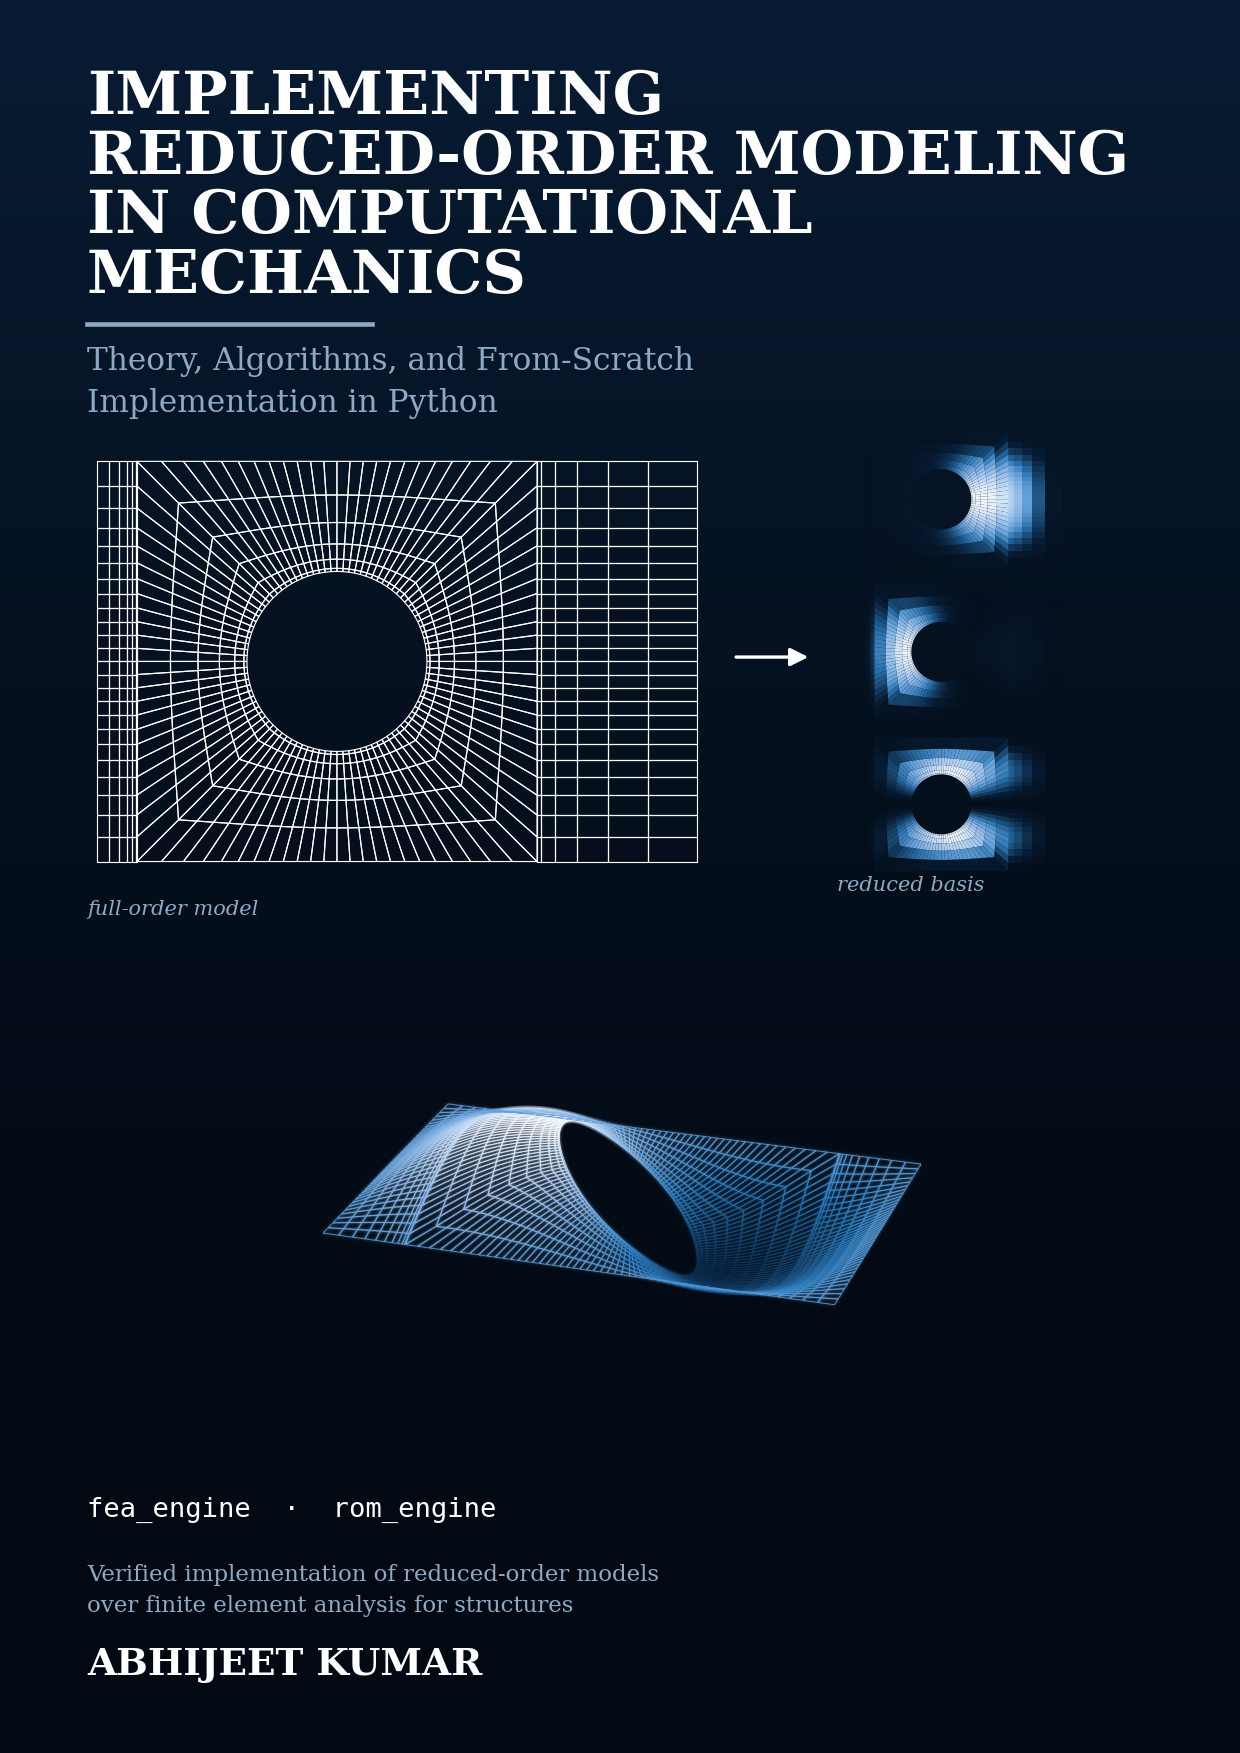
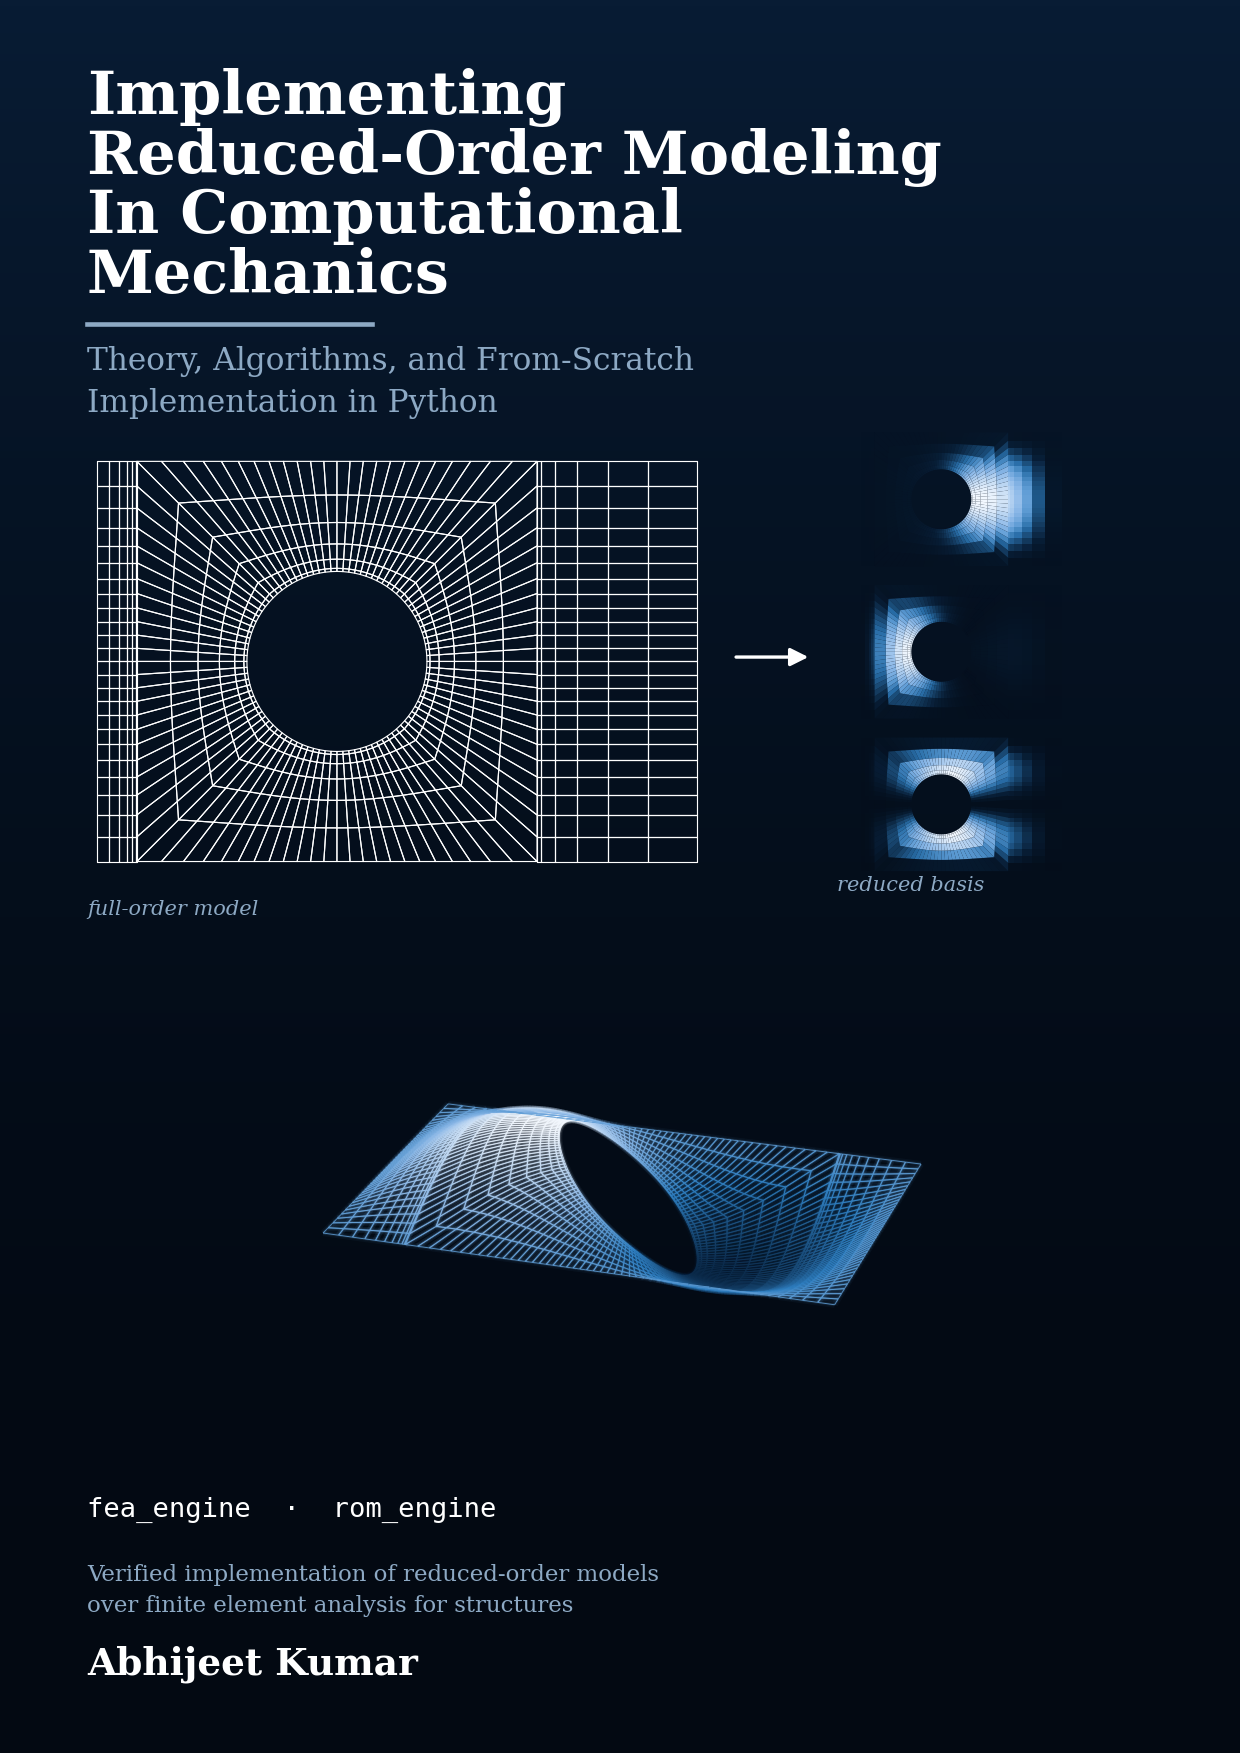
Fix capitalization in book title and citations; update cover generation script text

Changed region(s): [[0.0919, 0.0308, 0.9194, 0.1848], [0.0919, 0.9241, 0.3984, 0.9549]]

diff --git a/packages_book/cover/cover.py b/packages_book/cover/cover.py
@@ -89,16 +89,16 @@ for i, k in enumerate((0, 1, 2)):
 ax.text(0.675, 0.492, "reduced basis", color=ACC, fontsize=10, family=serif, style="italic")
 
 # --- type
-ax.text(0.07, 0.935, "IMPLEMENTING", color=INK, fontsize=29, family=serif, weight="bold")
-ax.text(0.07, 0.901, "REDUCED-ORDER MODELING", color=INK, fontsize=29, family=serif, weight="bold")
-ax.text(0.07, 0.867, "IN COMPUTATIONAL", color=INK, fontsize=29, family=serif, weight="bold")
-ax.text(0.07, 0.833, "MECHANICS", color=INK, fontsize=29, family=serif, weight="bold")
+ax.text(0.07, 0.935, "Implementing", color=INK, fontsize=29, family=serif, weight="bold")
+ax.text(0.07, 0.901, "Reduced-Order Modeling", color=INK, fontsize=29, family=serif, weight="bold")
+ax.text(0.07, 0.867, "In Computational", color=INK, fontsize=29, family=serif, weight="bold")
+ax.text(0.07, 0.833, "Mechanics", color=INK, fontsize=29, family=serif, weight="bold")
 ax.plot([0.07, 0.30], [0.815, 0.815], color=ACC, lw=2.2)
 ax.text(0.07, 0.789, "Theory, Algorithms, and From-Scratch", color=ACC, fontsize=15, family=serif)
 ax.text(0.07, 0.765, "Implementation in Python", color=ACC, fontsize=15, family=serif)
 ax.text(0.07, 0.135, "fea_engine  ·  rom_engine", color=INK, fontsize=13, family="DejaVu Sans Mono")
 ax.text(0.07, 0.108, "Verified implementation of reduced-order models\nover finite element analysis for structures", color=ACC, fontsize=11, family=serif, linespacing=1.5, va="top")
-ax.text(0.07, 0.045, "ABHIJEET KUMAR", color=INK, fontsize=18, family=serif, weight="bold")
+ax.text(0.07, 0.045, "Abhijeet Kumar", color=INK, fontsize=18, family=serif, weight="bold")
 fig.savefig("/tmp/cover/cover.pdf", facecolor=BG)
 fig.savefig("/tmp/cover/cover.png", dpi=150, facecolor=BG)
 print("ok")

diff --git a/packages_book/book/chapters/copyright.tex b/packages_book/book/chapters/copyright.tex
@@ -28,4 +28,4 @@ THE SOFTWARE IS PROVIDED ``AS IS'', WITHOUT WARRANTY OF ANY KIND, EXPRESS OR IMP
 
 The warranty clause applies to the code, and the verification sections of this book say what was and was not checked for it. A listing that needs a package that is not part of this repository, for example PyTorch, is under that package's own license.
 
-\paragraph{To cite this material.} For the book: A.~Kumar, \emph{Implementing Reduced-Order Modeling in Computational Mechanics: Theory, Algorithms, and From-Scratch Implementation in Python}, 2026. For the software: A.~Kumar, \emph{computation-suite: fea\_engine and rom\_engine}, versions 1.0.1 and 0.2.0, \texttt{https://github.com/abhi2k16/fea-rom-computation-suite}.
+\paragraph{To cite this material.} For the book: A.~Kumar, \emph{Implementing Reduced-Order Modeling In Computational Mechanics: Theory, Algorithms, and From-Scratch Implementation in Python}, 2026. For the software: A.~Kumar, \emph{computation-suite: fea\_engine and rom\_engine}, versions 1.0.1 and 0.2.0, \texttt{https://github.com/abhi2k16/fea-rom-computation-suite}.

diff --git a/packages_book/book/main.tex b/packages_book/book/main.tex
@@ -1,10 +1,10 @@
-% main.tex -- "Implementing Reduced-Order Modeling in Computational Mechanics".
+% main.tex -- "Implementing Reduced-Order Modeling In Computational Mechanics".
 % Build: latexmk -pdf main     (or pdflatex main && bibtex main && pdflatex main && pdflatex main)
 % Numbers in the text are macros from tables/*.tex, generated by scripts/*.py.
 \documentclass[11pt,a4paper,twoside,openany]{book}
 \input{macros}
 
-\title{Implementing Reduced-Order Modeling in Computational Mechanics\\[1ex]{\Large Theory, Algorithms, and From-Scratch\\Implementation in Python}}
+\title{Implementing Reduced-Order Modeling In Computational Mechanics\\[1ex]{\Large Theory, Algorithms, and From-Scratch\\Implementation in Python}}
 \author{Abhijeet Kumar}
 \date{Companion to \texttt{fea\_engine} 1.0.1 and \texttt{rom\_engine} 0.2.0}
 

diff --git a/packages_book/book/macros.tex b/packages_book/book/macros.tex
@@ -1,4 +1,4 @@
-% macros.tex -- preamble of the book "Implementing Reduced-Order Modeling in Computational Mechanics" (A4, class book).
+% macros.tex -- preamble of the book "Implementing Reduced-Order Modeling In Computational Mechanics" (A4, class book).
 \usepackage{pdfpages}
 \usepackage{tocloft}
 \setlength{\cftfigindent}{0em}\setlength{\cfttabindent}{0em}

diff --git a/packages_book/README.md b/packages_book/README.md
@@ -1,6 +1,6 @@
 # packages_book
 
-Planning material for the book *Implementing Reduced-Order Modeling in Computational Mechanics: Theory, Algorithms, and From-Scratch Implementation in Python*, based on the two packages of this repository (`fea_engine`, `rom_engine`).
+Planning material for the book *Implementing Reduced-Order Modeling In Computational Mechanics: Theory, Algorithms, and From-Scratch Implementation in Python*, based on the two packages of this repository (`fea_engine`, `rom_engine`).
 
 - `plan/` the book plan, written in LaTeX in the same style as `paper/`.
   Build: `cd plan && latexmk -pdf main` (or `pdflatex main && bibtex main && pdflatex main && pdflatex main`).
